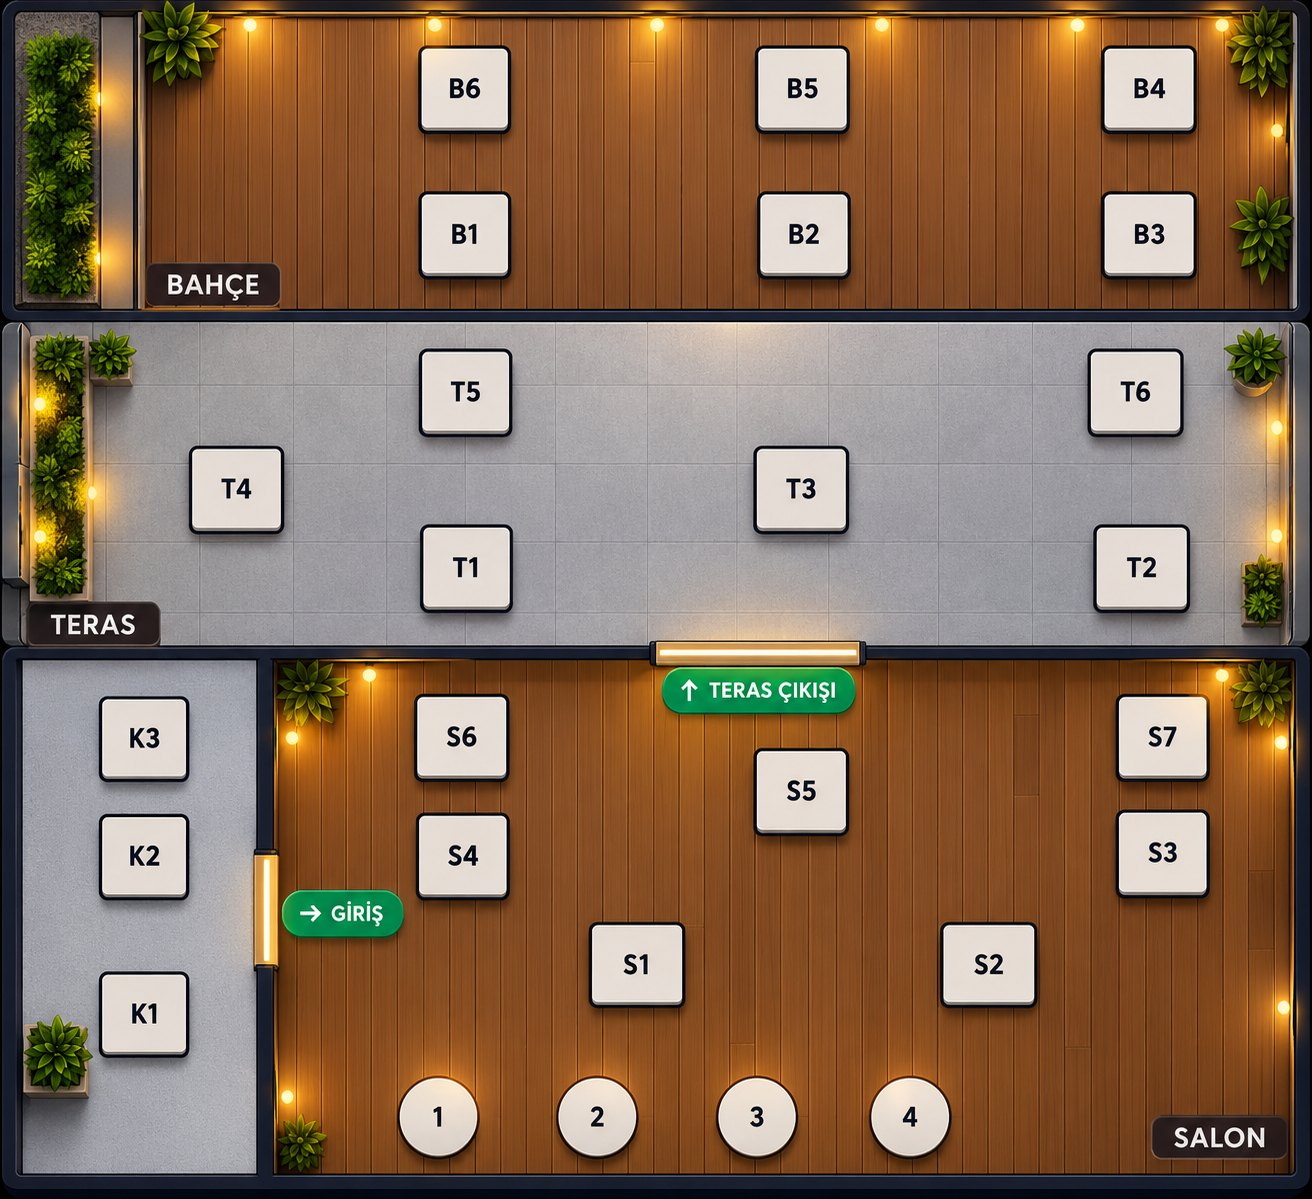
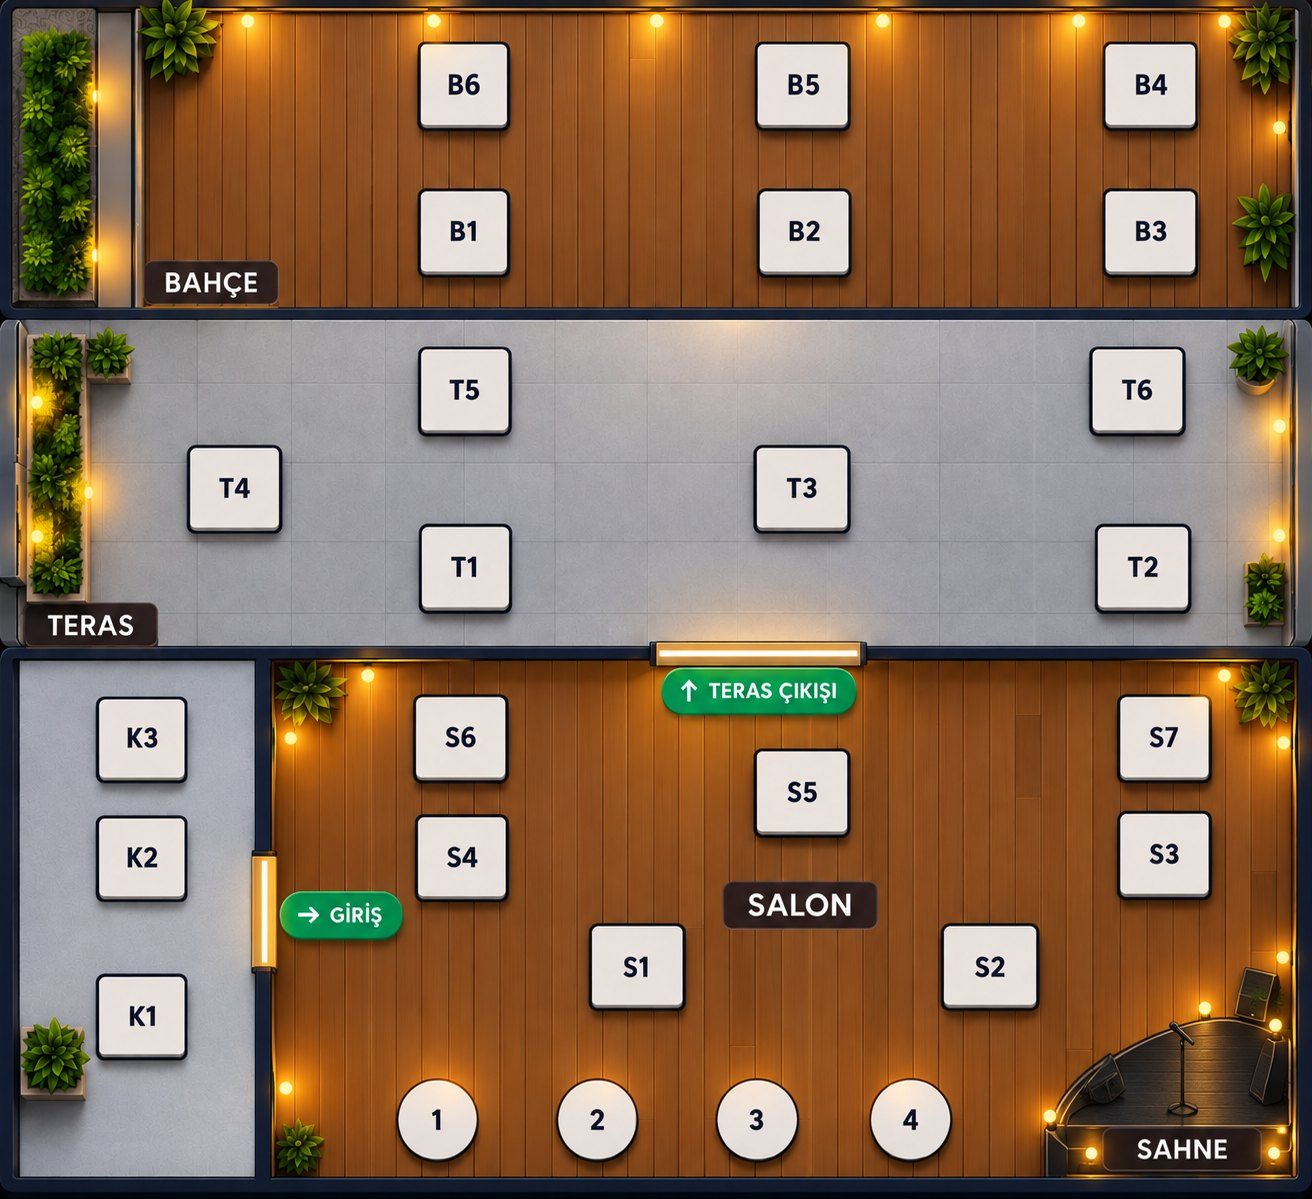
Yeni plan görseli; Sahne masa olarak eklendi (geniş dokunma alanı)
Claude-Session: https://claude.ai/code/session_01RUpcT3DoiabCfGCVc2KL3y

diff --git a/index.html b/index.html
@@ -305,6 +305,15 @@ body.is-dragging *{-webkit-user-select:none;user-select:none}
 .iplan .tbl.long{background:#C97A10;border-color:#fff;color:#fff;box-shadow:0 0 0 2px #C97A10,0 4px 10px rgba(0,0,0,.5)}
 .iplan .tbl.drop{outline:3px solid #34c27a;outline-offset:3px}
 .iplan .tbl.dragging{opacity:.35}
+
+.iplan .tbl.stage{width:19.2%;height:16%;border-radius:62% 14px 14px 14px / 70% 14px 14px 14px;background:transparent;border:2px dashed rgba(255,255,255,.28);box-shadow:none}
+.iplan .tbl.stage:not(.open):not(.long) > *{visibility:hidden}
+.iplan .tbl.stage:active{background:rgba(47,111,179,.25);border-color:#fff}
+.iplan .tbl.stage.open{background:rgba(47,111,179,.86)}
+.iplan .tbl.stage.long{background:rgba(201,122,16,.88)}
+.iplan .tbl.stage .nm{font-size:calc(var(--t)*.36)}
+.iplan .tbl.stage .amt{font-size:calc(var(--t)*.3)}
+.iplan .tbl.stage .tm{font-size:calc(var(--t)*.2)}
 @media (prefers-reduced-motion:reduce){*{transition:none!important}}
 </style>
 </head>
@@ -355,7 +364,7 @@ const GRID_ZONES = [["BAR","Bar"],["S","Salon"],["K","K Bölümü"],["T","Teras"
 const TABLES = [
   ["BAR1","Bar 1","BAR",78,185,1],["BAR2","Bar 2","BAR",78,253,1],["BAR3","Bar 3","BAR",78,318,1],["BAR4","Bar 4","BAR",78,382,1],
   ["K1","K1","K",204,61],["K2","K2","K",381,61],["K3","K3","K",493,61],
-  ["S1","S1","S",268,272],["S2","S2","S",268,423],["S3","S3","S",381,498],["S4","S4","S",381,198],["S5","S5","S",437,348],["S6","S6","S",493,198],["S7","S7","S",493,498],
+  ["S1","S1","S",268,272],["S2","S2","S",268,423],["S3","S3","S",381,498],["S4","S4","S",381,198],["S5","S5","S",437,348],["S6","S6","S",493,198],["S7","S7","S",493,498],["SAHNE","Sahne","S",560,520],
   ["T1","T1","T",663,198],["T2","T2","T",663,498],["T3","T3","T",747,348],["T4","T4","T",747,103],["T5","T5","T",832,198],["T6","T6","T",832,498],
   ["B1","B1","B",1001,198],["B2","B2","B",1001,348],["B3","B3","B",1001,498],["B4","B4","B",1170,498],["B5","B5","B",1170,348],["B6","B6","B",1170,198],
 ].map(([id,name,zone,x,y,round]) => ({id,name,zone,x,y,round:!!round}));
@@ -406,7 +415,7 @@ const bizDate = (ts = Date.now()) => ymd(new Date(ts - (st.settings.dayStartHour
 
 /* ---------- Store backends ---------- */
 const MENU_VER = 5;
-const APP_VERSION = "2026-10-18-9";
+const APP_VERSION = "2026-10-18-10";
 /* Clouds Up menüsü (kâğıt menüden, 18 Ekim 2026) */
 const CUP_MENU = {"ver": 5, "cats": ["Kahve", "Çay", "Soğuk İçecek", "Bira 33 cl", "Bira 50 cl", "C'up Kokteyl", "Klasik Kokteyl", "Viski", "Atıştırmalık"], "items": [{"id": "c001", "name": "Türk Kahvesi", "cat": "Kahve", "price": 90}, {"id": "c002", "name": "Türk Kahvesi Double", "cat": "Kahve", "price": 150}, {"id": "c003", "name": "Espresso", "cat": "Kahve", "price": 120}, {"id": "c004", "name": "Espresso Double", "cat": "Kahve", "price": 180}, {"id": "c005", "name": "Americano", "cat": "Kahve", "price": 200}, {"id": "c006", "name": "Cappuccino", "cat": "Kahve", "price": 240}, {"id": "c007", "name": "Mocha", "cat": "Kahve", "price": 260}, {"id": "c008", "name": "White Mocha", "cat": "Kahve", "price": 260}, {"id": "c009", "name": "Flat White", "cat": "Kahve", "price": 220}, {"id": "c010", "name": "Latte", "cat": "Kahve", "price": 240}, {"id": "c011", "name": "Affogato", "cat": "Kahve", "price": 400}, {"id": "c012", "name": "Çay", "cat": "Çay", "price": 50}, {"id": "c013", "name": "Fincan Çay", "cat": "Çay", "price": 80}, {"id": "c014", "name": "Bitki Çayı", "cat": "Çay", "price": 120}, {"id": "c015", "name": "Su", "cat": "Soğuk İçecek", "price": 40}, {"id": "c016", "name": "Soda", "cat": "Soğuk İçecek", "price": 80}, {"id": "c017", "name": "Churchill", "cat": "Soğuk İçecek", "price": 130}, {"id": "c018", "name": "Kola", "cat": "Soğuk İçecek", "price": 150}, {"id": "c019", "name": "Soğuk Çay", "cat": "Soğuk İçecek", "price": 150}, {"id": "c020", "name": "Meyve Suyu", "cat": "Soğuk İçecek", "price": 140}, {"id": "c021", "name": "Enerji İçeceği", "cat": "Soğuk İçecek", "price": 200}, {"id": "c030", "name": "Tuborg 33cl", "cat": "Bira 33 cl", "price": 270}, {"id": "c031", "name": "Efes 33cl", "cat": "Bira 33 cl", "price": 300}, {"id": "c032", "name": "Efes Glutensiz 33cl", "cat": "Bira 33 cl", "price": 400}, {"id": "c033", "name": "Carlsberg 33cl", "cat": "Bira 33 cl", "price": 300}, {"id": "c034", "name": "Stella 33cl", "cat": "Bira 33 cl", "price": 300}, {"id": "c035", "name": "Corona 33cl", "cat": "Bira 33 cl", "price": 450}, {"id": "c036", "name": "Blanc 33cl", "cat": "Bira 33 cl", "price": 350}, {"id": "c037", "name": "Miller 33cl", "cat": "Bira 33 cl", "price": 300}, {"id": "c022", "name": "Tuborg 50cl", "cat": "Bira 50 cl", "price": 300}, {"id": "c023", "name": "Efes 50cl", "cat": "Bira 50 cl", "price": 300}, {"id": "c024", "name": "Efes Glutensiz 50cl", "cat": "Bira 50 cl", "price": 400}, {"id": "c025", "name": "Carlsberg 50cl", "cat": "Bira 50 cl", "price": 300}, {"id": "c026", "name": "Stella 50cl", "cat": "Bira 50 cl", "price": 300}, {"id": "c027", "name": "Corona 50cl", "cat": "Bira 50 cl", "price": 450}, {"id": "c028", "name": "Blanc 50cl", "cat": "Bira 50 cl", "price": 350}, {"id": "c029", "name": "Miller 50cl", "cat": "Bira 50 cl", "price": 350}, {"id": "c038", "name": "Vanilia Hibiscus", "cat": "C'up Kokteyl", "price": 800}, {"id": "c039", "name": "Passion Zencefil", "cat": "C'up Kokteyl", "price": 800}, {"id": "c040", "name": "Ahududu Lime", "cat": "C'up Kokteyl", "price": 800}, {"id": "c041", "name": "Kakule Vişne", "cat": "C'up Kokteyl", "price": 800}, {"id": "c042", "name": "Kuzu Kulağı - Yeşil Elma", "cat": "C'up Kokteyl", "price": 800}, {"id": "c043", "name": "Espresso Martini", "cat": "Klasik Kokteyl", "price": 800}, {"id": "c044", "name": "Iceland", "cat": "Klasik Kokteyl", "price": 800}, {"id": "c045", "name": "Cin Tonik", "cat": "Klasik Kokteyl", "price": 800}, {"id": "c046", "name": "Pina Colada", "cat": "Klasik Kokteyl", "price": 800}, {"id": "c047", "name": "Mudslide", "cat": "Klasik Kokteyl", "price": 800}, {"id": "c048", "name": "Johnnie Walker Black Label Tek", "cat": "Viski", "price": 600}, {"id": "c052", "name": "Chivas Regal Tek", "cat": "Viski", "price": 600}, {"id": "c056", "name": "Chivas Regal 18 Tek", "cat": "Viski", "price": 750}, {"id": "c059", "name": "Jameson Tek", "cat": "Viski", "price": 500}, {"id": "c049", "name": "Johnnie Walker Black Label Duble", "cat": "Viski", "price": 1100}, {"id": "c053", "name": "Chivas Regal Duble", "cat": "Viski", "price": 1100}, {"id": "c057", "name": "Chivas Regal 18 Duble", "cat": "Viski", "price": 1400}, {"id": "c060", "name": "Jameson Duble", "cat": "Viski", "price": 1000}, {"id": "c050", "name": "Johnnie Walker Black Label 35cl", "cat": "Viski", "price": 4500}, {"id": "c054", "name": "Chivas Regal 35cl", "cat": "Viski", "price": 4500}, {"id": "c051", "name": "Johnnie Walker Black Label 70cl", "cat": "Viski", "price": 7000}, {"id": "c055", "name": "Chivas Regal 70cl", "cat": "Viski", "price": 7000}, {"id": "c058", "name": "Chivas Regal 18 70cl", "cat": "Viski", "price": 10000}, {"id": "c061", "name": "Jameson 70cl", "cat": "Viski", "price": 6000}, {"id": "c062", "name": "Karışık Çerez", "cat": "Atıştırmalık", "price": 250}, {"id": "c063", "name": "Turşu", "cat": "Atıştırmalık", "price": 200}, {"id": "c064", "name": "Cips", "cat": "Atıştırmalık", "price": 200}]};
 const DEMO_MENU = CUP_MENU;
@@ -685,7 +694,7 @@ function tileHTML(t, cls=""){
   return `<button class="${c}" data-tid="${t.id}" aria-label="${esc(aria)}"><span class="nm">${esc(t.round ? t.name.replace("Bar ","") : t.name)}</span>${open ? `<span class="amt">${tlShort(linesTotal(o.lines))}</span><span class="tm">${elapsed(o.openedAt)}</span>` : ""}</button>`;
 }
 const IMG_W = 1312, IMG_H = 1199;
-const IMG_POS = {"B6": [464, 88], "B5": [802, 88], "B4": [1149, 88], "B1": [465, 234], "B2": [804, 234], "B3": [1149, 234], "T5": [466, 392], "T6": [1135, 391], "T4": [236, 490], "T3": [801, 488], "T1": [466, 568], "T2": [1142, 567], "K3": [144, 738], "S6": [462, 736], "S7": [1162, 736], "S5": [801, 791], "S4": [462, 855], "S3": [1162, 852], "S1": [637, 964], "S2": [989, 964], "K2": [144, 855], "K1": [144, 1013], "BAR1": [438, 1116], "BAR2": [597, 1116], "BAR3": [757, 1116], "BAR4": [910, 1116]};
+const IMG_POS = {"B6": [464, 84], "B5": [802, 84], "B4": [1150, 84], "B1": [464, 232], "B2": [804, 232], "B3": [1150, 232], "T5": [465, 390], "T6": [1138, 390], "T4": [234, 488], "T3": [802, 488], "T1": [465, 568], "T2": [1143, 568], "K3": [142, 738], "S6": [461, 738], "S7": [1164, 738], "S5": [802, 792], "K2": [142, 858], "S4": [462, 857], "S3": [1164, 854], "S1": [638, 966], "S2": [990, 966], "K1": [142, 1016], "BAR1": [438, 1121], "BAR2": [597, 1121], "BAR3": [757, 1120], "BAR4": [911, 1120], "SAHNE": [1172, 1080]};
 const VW = 554, VH = 1255;
 const isPortrait = () => window.innerHeight > window.innerWidth;
 function renderTables(){
@@ -703,7 +712,7 @@ function renderTables(){
     v.innerHTML = `${banner}
       <div class="vrow"><div class="muted num" style="min-width:0"><b style="color:var(--ink)">${openN}</b> açık masa · ${tl(openSum)}<div style="font-size:11px">Aktarmak için masayı basılı tutup sürükleyin</div></div>${seg}</div>
       <div class="vwrap" id="vwrap"><div class="iplan" id="vplan" role="group" aria-label="Kat planı">
-        ${TABLES.map(t => { const q = IMG_POS[t.id]; return tileHTML(t).replace('class="tbl', `style="left:${pct(q[0],IMG_W)};top:${pct(q[1],IMG_H)}" class="tbl`); }).join("")}
+        ${TABLES.map(t => { const q = IMG_POS[t.id]; return tileHTML(t).replace('class="tbl', `style="left:${pct(q[0],IMG_W)};top:${pct(q[1],IMG_H)}" class="tbl${t.id === "SAHNE" ? " stage" : ""}`); }).join("")}
       </div></div>`;
     fitVPlan();
     return;

diff --git a/sw.js b/sw.js
@@ -1,5 +1,5 @@
 // C'up offline cache. Bump VERSION when index.html changes so iPads pick up the update.
-const VERSION = "cup-v16";
+const VERSION = "cup-v17";
 const CORE = ["./", "index.html", "plan.jpg", "manifest.webmanifest", "apple-touch-icon.png", "icons/icon-192.png", "icons/icon-512.png"];
 self.addEventListener("install", e => { e.waitUntil(caches.open(VERSION).then(c => c.addAll(CORE)).then(() => self.skipWaiting())); });
 self.addEventListener("activate", e => {
